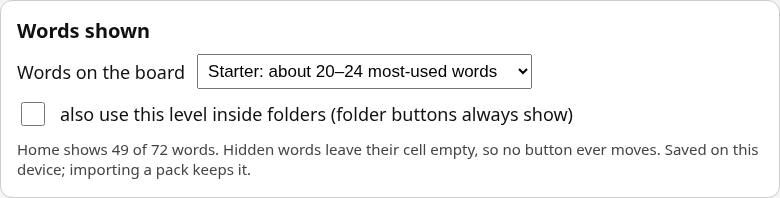
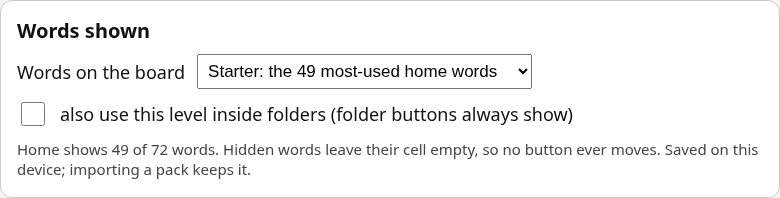
Word Board 1.3.3: level menu labels counted from the board (no stale counts), SW cache v16; screenshots, README

Changed region(s): [[0.3385, 0.3333, 0.6154, 0.3939]]

diff --git a/dist/aac.html b/dist/aac.html
@@ -306,8 +306,8 @@ button, [role="button"] {
       <h2>Words shown</h2>
       <label class="row">Words on the board
         <select id="set-wordsshown">
-          <option value="starter">Starter: about 20–24 most-used words</option>
-          <option value="middle">Middle: about 36–40 words</option>
+          <option value="starter">Starter: most-used words</option>
+          <option value="middle">Middle: more words</option>
           <option value="full">Full: every word</option>
           <option value="custom">Custom: tap words below to show / hide</option>
         </select>
@@ -4220,7 +4220,7 @@ button, [role="button"] {
    imported pack (fallback), are stored on this device only (IndexedDB) and merged on top. */
 (function () {
   "use strict";
-  var APP_VERSION = "1.3.2";
+  var APP_VERSION = "1.3.3";
   var LS = { settings: "wb.settings", hidden: "wb.hidden", log: "wb.log", custom: "wb.custom" };
   var DEFAULT_SETTINGS = {
     voiceURI: "", voiceName: "", rate: 0.9, pitch: 1.0, volume: 1.0,
@@ -4412,6 +4412,16 @@ button, [role="button"] {
   function setWordsShown(mode) {
     if (mode === "custom" && !customVis) { customVis = { base: LEVELS[wordsShownMode()] || 3, shown: {} }; writeJSON(LS.custom, customVis); }
     settings.wordsShown = mode; saveSettings();
+  }
+  /* Level menu labels are counted from the board itself (home words per level), so they never go stale. */
+  function labelLevelOptions() {
+    var n = [0, 0, 0, 0];
+    config.words.forEach(function (w) { if (w.page === "home" && w.type !== "folder" && cellMap.home && cellMap.home[w.row + "," + w.col] === w) n[wordLevel(w)]++; });
+    var all = n[1] + n[2] + n[3], text = {
+      starter: "Starter: the " + n[1] + " most-used home words",
+      middle: "Middle: " + (n[1] + n[2]) + " home words",
+      full: "Full: every word (" + all + " on home)" };
+    Array.prototype.forEach.call($("set-wordsshown").options, function (o) { if (text[o.value]) o.textContent = text[o.value]; });
   }
   function shownCount(pageId) {
     var n = 0, all = 0;
@@ -5010,6 +5020,7 @@ button, [role="button"] {
     $("set-tapguard").value = String(settings.tapGuardMs);
     $("set-wordsshown").value = wordsShownMode(); $("set-levelfolders").checked = !!settings.levelInFolders;
     var hc = shownCount("home"), dm = config.wordsShown && LEVELS[config.wordsShown] ? config.wordsShown : "full";
+    labelLevelOptions();
     $("level-note").textContent = "Home shows " + hc[0] + " of " + hc[1] + " words. Hidden words leave their cell empty, so no button ever moves. " +
       (settings.wordsShown ? "Saved on this device; importing a pack keeps it." : "Not chosen yet, so this pack's default (" + dm + ") is used.");
     var sw = navigator.serviceWorker && navigator.serviceWorker.controller;

diff --git a/app.js b/app.js
@@ -5,7 +5,7 @@
    imported pack (fallback), are stored on this device only (IndexedDB) and merged on top. */
 (function () {
   "use strict";
-  var APP_VERSION = "1.3.2";
+  var APP_VERSION = "1.3.3";
   var LS = { settings: "wb.settings", hidden: "wb.hidden", log: "wb.log", custom: "wb.custom" };
   var DEFAULT_SETTINGS = {
     voiceURI: "", voiceName: "", rate: 0.9, pitch: 1.0, volume: 1.0,
@@ -197,6 +197,16 @@
   function setWordsShown(mode) {
     if (mode === "custom" && !customVis) { customVis = { base: LEVELS[wordsShownMode()] || 3, shown: {} }; writeJSON(LS.custom, customVis); }
     settings.wordsShown = mode; saveSettings();
+  }
+  /* Level menu labels are counted from the board itself (home words per level), so they never go stale. */
+  function labelLevelOptions() {
+    var n = [0, 0, 0, 0];
+    config.words.forEach(function (w) { if (w.page === "home" && w.type !== "folder" && cellMap.home && cellMap.home[w.row + "," + w.col] === w) n[wordLevel(w)]++; });
+    var all = n[1] + n[2] + n[3], text = {
+      starter: "Starter: the " + n[1] + " most-used home words",
+      middle: "Middle: " + (n[1] + n[2]) + " home words",
+      full: "Full: every word (" + all + " on home)" };
+    Array.prototype.forEach.call($("set-wordsshown").options, function (o) { if (text[o.value]) o.textContent = text[o.value]; });
   }
   function shownCount(pageId) {
     var n = 0, all = 0;
@@ -795,6 +805,7 @@
     $("set-tapguard").value = String(settings.tapGuardMs);
     $("set-wordsshown").value = wordsShownMode(); $("set-levelfolders").checked = !!settings.levelInFolders;
     var hc = shownCount("home"), dm = config.wordsShown && LEVELS[config.wordsShown] ? config.wordsShown : "full";
+    labelLevelOptions();
     $("level-note").textContent = "Home shows " + hc[0] + " of " + hc[1] + " words. Hidden words leave their cell empty, so no button ever moves. " +
       (settings.wordsShown ? "Saved on this device; importing a pack keeps it." : "Not chosen yet, so this pack's default (" + dm + ") is used.");
     var sw = navigator.serviceWorker && navigator.serviceWorker.controller;

diff --git a/sw.js b/sw.js
@@ -1,6 +1,6 @@
 /* Service worker: makes the app work with no network after the first visit.
    Only runs on https:// or http://localhost (browser rule). */
-var CACHE = "wordboard-v15";   // bump this whenever app files change so devices update
+var CACHE = "wordboard-v16";   // bump this whenever app files change so devices update
 var SHELL = ["./", "styles.css", "store.js", "app.js", "words.js", "stories.js", "manifest.json",
   "icons/icon-180.png", "icons/icon-192.png", "icons/icon-512.png",
   "private/overlay.js"]   // optional: only exists in the private copy; a 404 is simply skipped

diff --git a/index.html b/index.html
@@ -47,8 +47,8 @@
       <h2>Words shown</h2>
       <label class="row">Words on the board
         <select id="set-wordsshown">
-          <option value="starter">Starter: about 20–24 most-used words</option>
-          <option value="middle">Middle: about 36–40 words</option>
+          <option value="starter">Starter: most-used words</option>
+          <option value="middle">Middle: more words</option>
           <option value="full">Full: every word</option>
           <option value="custom">Custom: tap words below to show / hide</option>
         </select>

diff --git a/README.md b/README.md
@@ -3,7 +3,7 @@
 A simple, offline-capable AAC (communication board) web app for iPad. Plain HTML/CSS/JS:
 no build step, no frameworks, no CDNs, no analytics, no network calls.
 
-**Current version: 1.3.2.** Try it: [neuresthetics.github.io/anova_language_dev_public](https://neuresthetics.github.io/anova_language_dev_public/).
+**Current version: 1.3.3.** Try it: [neuresthetics.github.io/anova_language_dev_public](https://neuresthetics.github.io/anova_language_dev_public/).
 Set it up on your own iPad for free: [docs/SETUP.md](docs/SETUP.md).
 
 | Home (starter level) | Home (full) | Animals |
@@ -86,7 +86,7 @@ level, and the parent decides how much of the board is visible.
 the same place at every level.*
 
 **Three levels.** Each word in `words.js` has a `level`: 1 = starter, 2 = middle, 3 = full.
-In 1.3.2 the built-in board has 275 words plus 10 folder buttons:
+In 1.3.3 the built-in board has 275 words plus 10 folder buttons:
 
 | Level | Home shows | Whole board (with *levels in folders* on) |
 |---|---|---|
